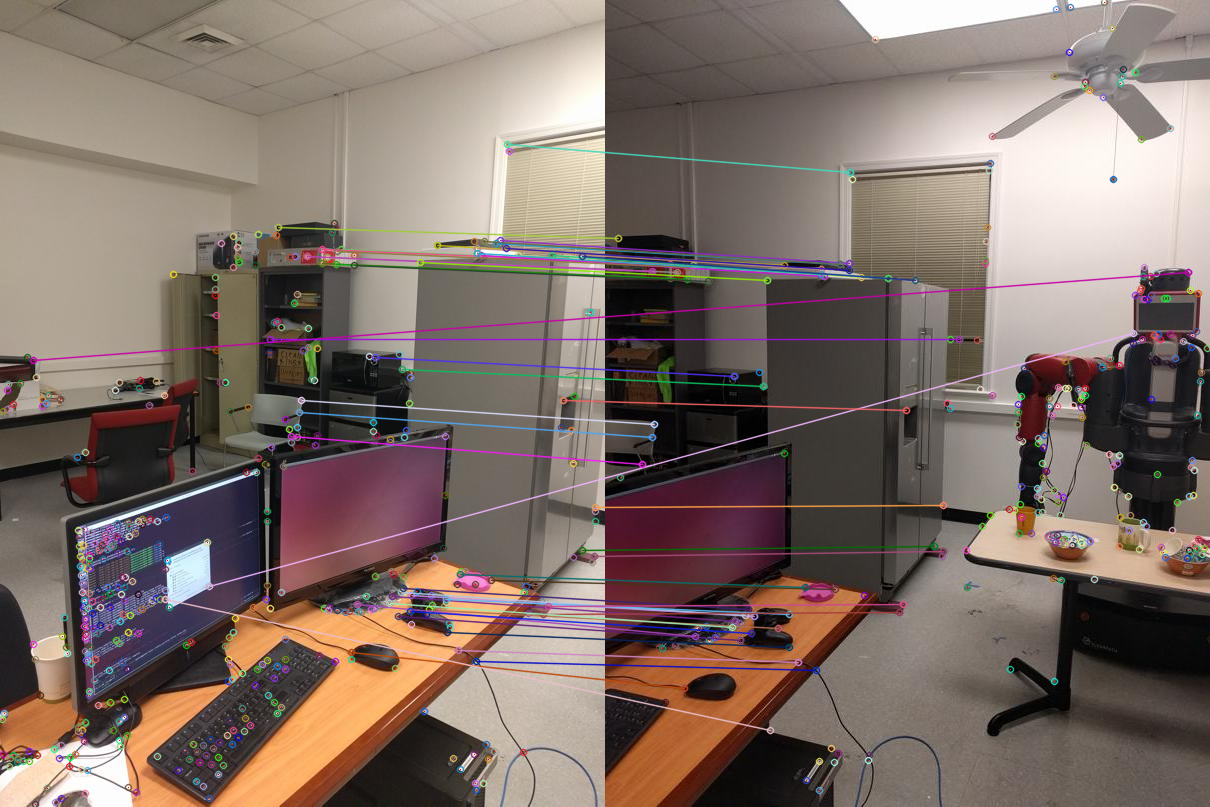
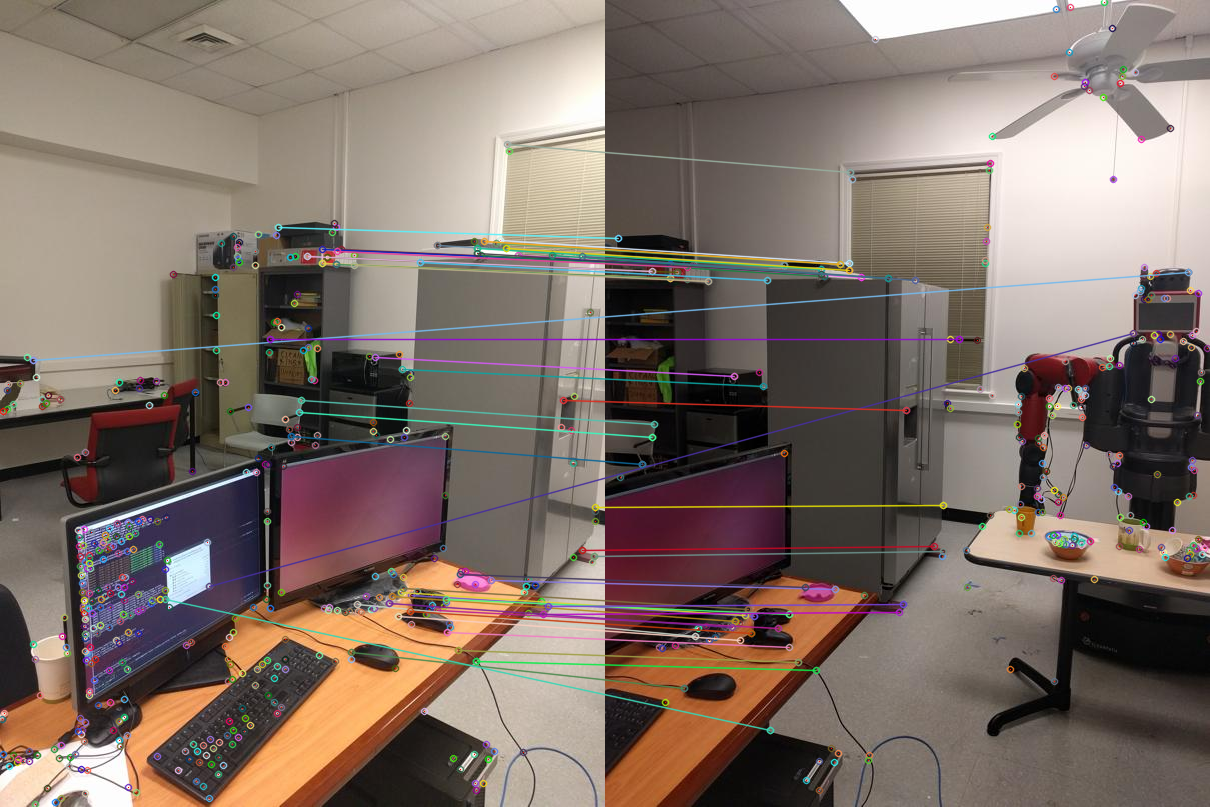
uses full set3 data

diff --git a/Phase1/Code/Wrapper2.py b/Phase1/Code/Wrapper2.py
@@ -33,14 +33,14 @@ def main():
     # Args = Parser.parse_args()
     # NumFeatures = Args.NumFeatures
 
-    path = "Set2"
+    path = "Set3"
     os.makedirs(f'outputs/{path}', exist_ok=True)
 
     """
     Read a set of images for Panorama stitching
     """
     # im_set = [cv2.imread(f'D:/Computer vision/Homeworks/Project Phase1/YourDirectoryID_p1/YourDirectoryID_p1/Phase1/Data/Train/{path}/{i + 1}.jpg') for i in range(3)]
-    im_set = [cv2.imread(f'Phase1/Data/Train/{path}/{i + 1}.jpg') for i in range(3)]
+    im_set = [cv2.imread(f'Phase1/Data/Train/{path}/{i + 1}.jpg') for i in range(len(os.listdir(f'Phase1/Data/Train/{path}')))]
     
     for im in im_set:
         cv2.imshow('image', im)
